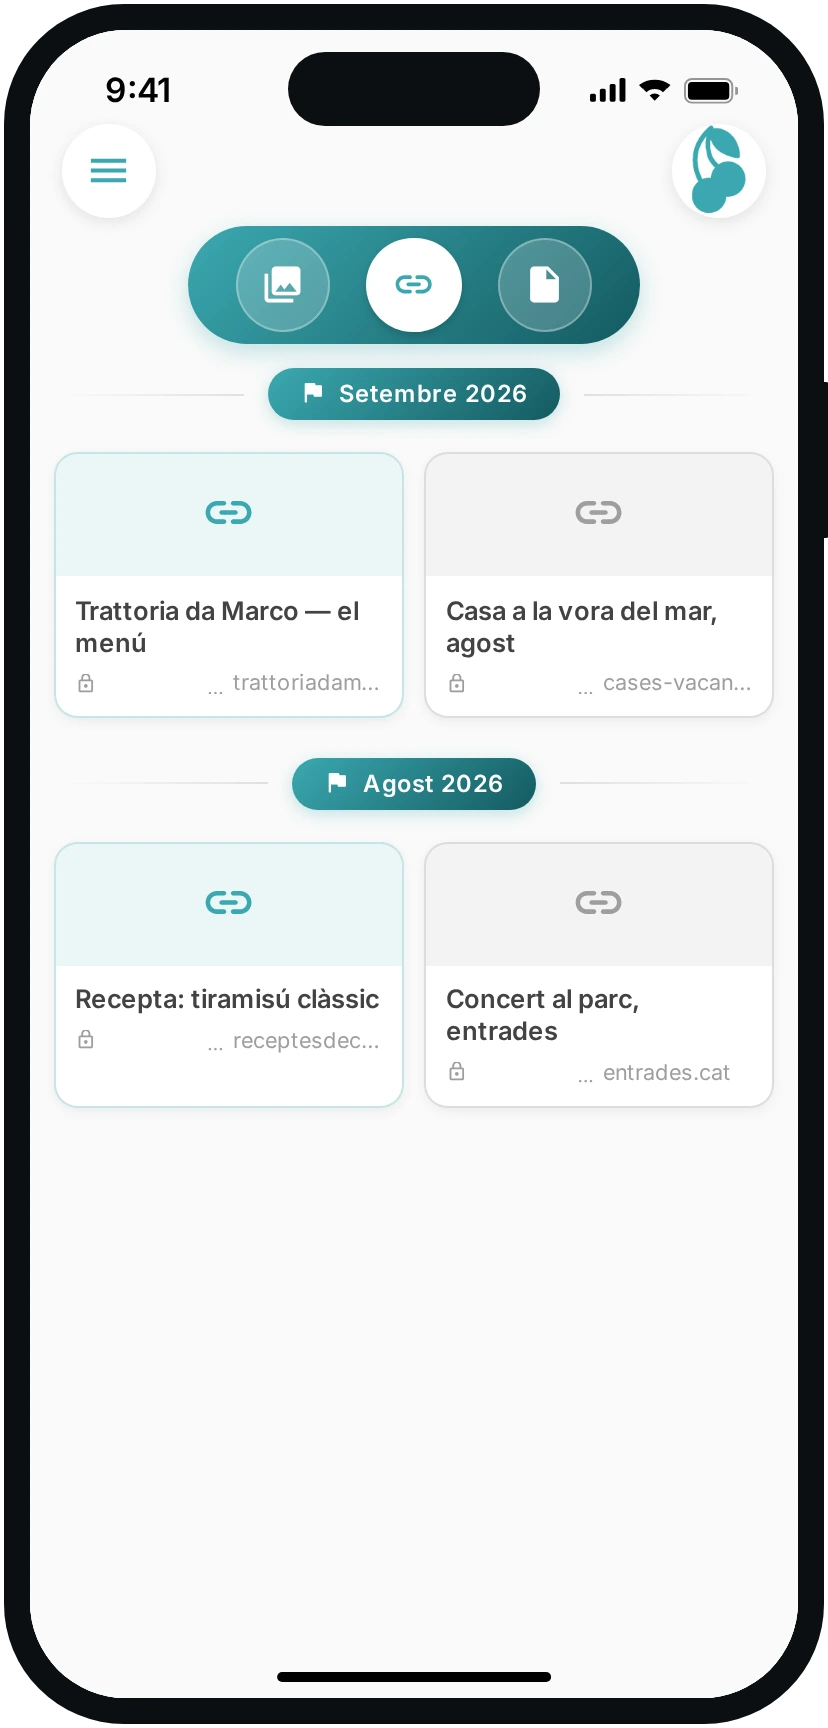
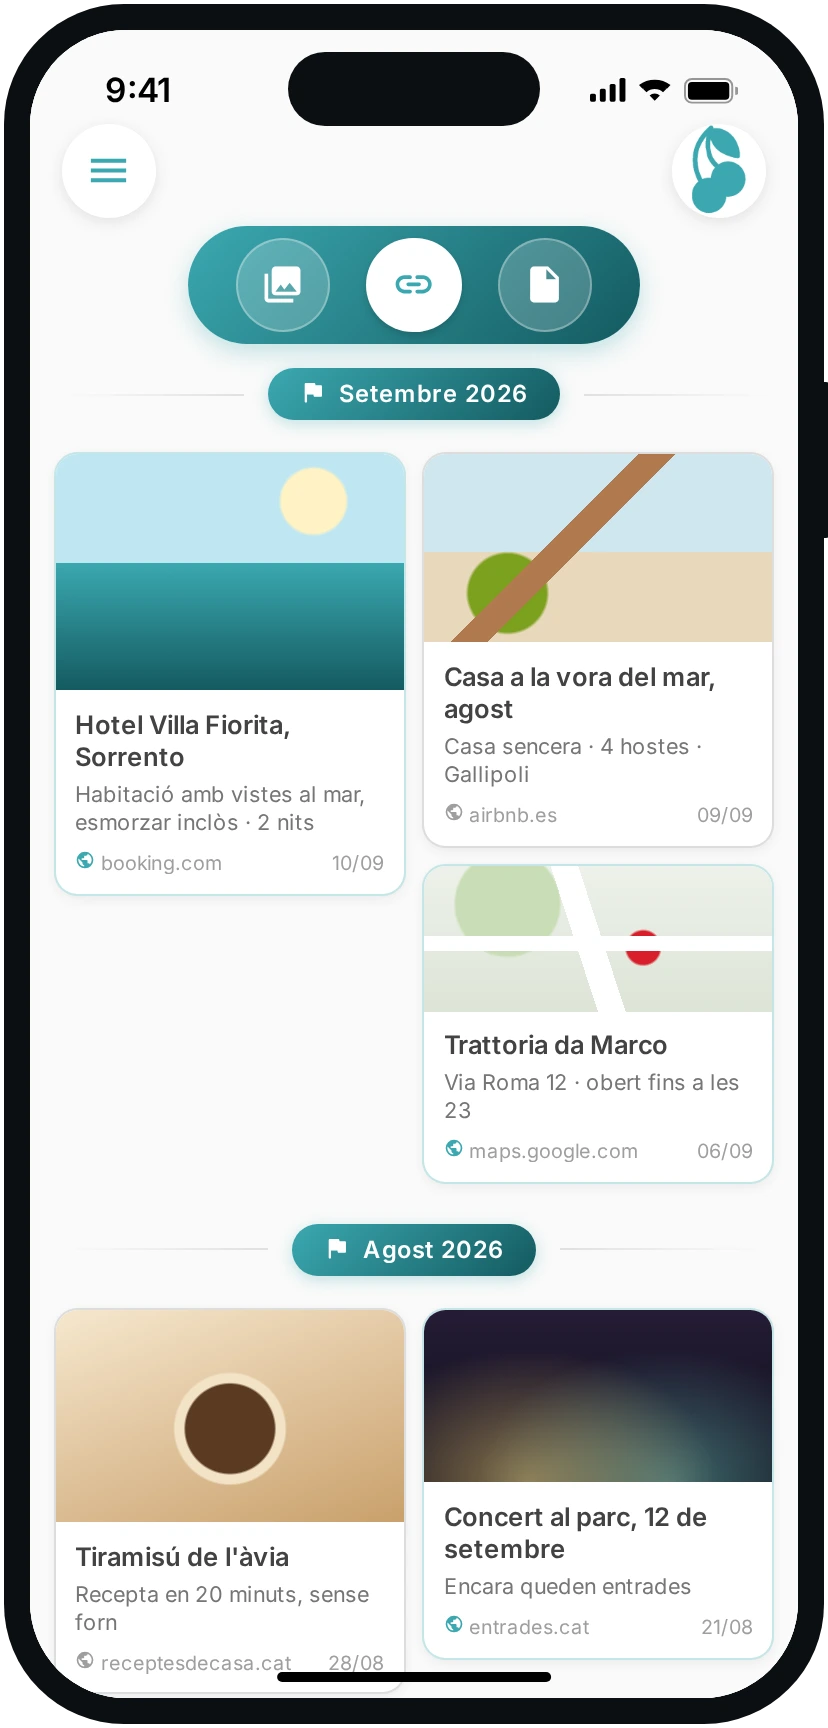
Galleria: i link diventano una masonry con le anteprime
Nell'app la scheda dei link è una MasonryGridView a due colonne e ogni card ha
la thumbnail scaricata dal link, titolo, descrizione e dominio: il mock invece
mostrava una griglia uniforme con una fascia azzurra e l'icona di una catena.
Ora è fedele.

- Masonry vera (column-count: 2, break-inside: avoid), quindi le schede hanno
  altezze diverse a seconda dell'anteprima, come su Pinterest.
- Anteprime disegnate: mare e sole per l'hotel, casa e prato per l'affitto,
  mappa con strade e spillo rosso per il locale, tazzina per la ricetta, luci
  di palco per il concerto. Le thumbnail vere le scarica l'app dal link, qui
  sono illustrate.
- La riga del dominio ora usa l'icona public nel colore di chi ha mandato il
  link, come nel Flutter, e mostra anche la data.
- I domini sono scritti come testo (booking.com, airbnb, maps.google.com):
  nessun logo altrui riprodotto, che in una pagina promozionale sarebbe un
  problema di marchio.
- Aggiunto padding in fondo alla galleria, così l'ultima riga non finisce
  sotto la barra home.

Claude-Session: https://claude.ai/code/session_017qH6MnkFAjSTzPptRSAvuz

diff --git a/store/screenshots/src/index.html b/store/screenshots/src/index.html
@@ -179,7 +179,7 @@ h1 { font-family: var(--display); font-weight: 800; font-size: 9.4vw; line-heigh
 .cal .tpanel .bubble { max-width: 78%; }
 
 /* Media */
-.media { position: absolute; inset: 0; background: #FAFAFA; display: flex; flex-direction: column; padding-top: 100px; }
+.media { position: absolute; inset: 0; background: #FAFAFA; display: flex; flex-direction: column; padding-top: 100px; padding-bottom: calc(6px + var(--safe-b)); }
 .tabs { margin: 0 80px; padding: 6px; border-radius: 30px; background: var(--grad); box-shadow: 0 4px 12px rgba(59,168,176,.3); display: flex; justify-content: space-evenly; }
 .tabs .t { width: 48px; height: 48px; border-radius: 50%; display: flex; align-items: center; justify-content: center; color: #fff; background: rgba(255,255,255,.2); border: 1px solid rgba(255,255,255,.3); }
 .tabs .t.on { background: #fff; color: #3BA8B0; border: none; box-shadow: 0 2px 4px rgba(0,0,0,.15); }
@@ -192,16 +192,21 @@ h1 { font-family: var(--display); font-weight: 800; font-size: 9.4vw; line-heigh
 .ph .badge.p { background: rgba(158,158,158,.9); }
 .ph .vid { position: absolute; inset: 0; display: flex; align-items: center; justify-content: center; color: #fff; background: linear-gradient(180deg, transparent, rgba(0,0,0,.4)); }
 
-/* Link e documenti (media_screen.dart: _LinkCard e _DocumentListItem) */
-.lgrid { display: grid; grid-template-columns: 1fr 1fr; gap: 10px; padding: 4px 12px 8px; }
-.lcard { background: #fff; border-radius: 12px; border: 1.5px solid rgba(59,168,176,.3); box-shadow: 0 2px 6px rgba(0,0,0,.06); overflow: hidden; }
+/* Link e documenti (media_screen.dart: _LinkGridItem e _DocumentListItem).
+   I link stanno in una masonry a due colonne — nell'app è MasonryGridView.count
+   — quindi le schede hanno altezze diverse a seconda della miniatura. */
+.lgrid { column-count: 2; column-gap: 8px; padding: 4px 12px 8px; }
+.lcard { break-inside: avoid; margin-bottom: 8px; background: #fff; border-radius: 12px;
+  border: 1.5px solid rgba(59,168,176,.3); box-shadow: 0 2px 6px rgba(0,0,0,.06); overflow: hidden; }
 .lcard.p { border-color: rgba(158,158,158,.35); }
-.lcard .thumb { height: 62px; display: flex; align-items: center; justify-content: center; background: rgba(59,168,176,.1); color: #3BA8B0; }
-.lcard.p .thumb { background: rgba(158,158,158,.12); color: #9E9E9E; }
+.lcard .thumb { position: relative; overflow: hidden; }
+.lcard .noimg { display: flex; align-items: center; justify-content: center; height: 60px; background: rgba(59,168,176,.1); color: #3BA8B0; }
+.lcard.p .noimg { background: rgba(158,158,158,.12); color: #9E9E9E; }
 .lcard .body { padding: 10px; }
 .lcard .tt { font-size: 13px; font-weight: 600; line-height: 1.25; color: #424242; }
-.lcard .dm { display: flex; align-items: center; gap: 4px; margin-top: 6px; font-size: 11px; color: #9E9E9E; }
-.lcard .dm span { flex: 1; min-width: 0; overflow: hidden; text-overflow: ellipsis; white-space: nowrap; }
+.lcard .ds { margin-top: 4px; font-size: 11px; line-height: 1.3; color: #757575; }
+.lcard .dm { display: flex; align-items: center; gap: 3px; margin-top: 6px; font-size: 10px; color: #9E9E9E; }
+.lcard .dm .site { flex: 1; min-width: 0; overflow: hidden; text-overflow: ellipsis; white-space: nowrap; }
 .dlist { display: flex; flex-direction: column; gap: 10px; padding: 4px 12px 8px; }
 .drow { display: flex; align-items: center; gap: 12px; padding: 12px; background: #fff; border-radius: 12px; border: 1.5px solid rgba(59,168,176,.3); box-shadow: 0 2px 4px rgba(0,0,0,.04); }
 .drow.p { border-color: rgba(158,158,158,.35); }
@@ -362,7 +367,7 @@ const UI = {
     locActive: 'Condivisione attiva', callTitle: 'Chiamata Vocale', good: 'Connessione buona', mute: 'Muto', speaker: 'Altoparlante', end: 'Fine',
     ago: '12s fa', add: 'Aggiungi', wd: ['L','M','M','G','V','S','D'], month: 'Settembre 2026', month2: 'Agosto 2026',
     todo1: 'Cena da Marco e Giulia 🍝', todo2: 'Prenotare il treno per Roma 🚄', todo3: 'Comprare i fiori per la mamma 💐',
-    links: [['Trattoria da Marco — il menù','trattoriadamarco.it'],['Casa sul mare, agosto','case-vacanza.it'],['Ricetta: tiramisù classico','ricettedicasa.it'],['Concerto al parco, biglietti','biglietteria.it']], docs: [['Contratto affitto.pdf','1,2 MB','10/09'],['Biglietti treno Roma.pdf','340 KB','08/09'],['Preventivo cucina.pdf','2,1 MB','05/09'],['Ricette della nonna.docx','88 KB','02/09']],
+    links: [['Hotel Villa Fiorita, Sorrento','Camera vista mare, colazione inclusa · 2 notti','booking.com','10/09'],['Casa sul mare, agosto','Intera casa · 4 ospiti · Gallipoli','airbnb.it','09/09'],['Trattoria da Marco','Via Roma 12 · aperto fino alle 23','maps.google.com','06/09'],['Tiramisù della nonna','Ricetta in 20 minuti, senza forno','ricettedicasa.it','28/08'],['Concerto al parco, 12 settembre','Biglietti ancora disponibili','biglietteria.it','21/08']], docs: [['Contratto affitto.pdf','1,2 MB','10/09'],['Biglietti treno Roma.pdf','340 KB','08/09'],['Preventivo cucina.pdf','2,1 MB','05/09'],['Ricette della nonna.docx','88 KB','02/09']],
     pairTitle: 'Pairing con il tuo amore', pairSub: 'Completa entrambi i passaggi per accoppiare i dispositivi',
     s1t: 'Mostra il tuo QR', s1d: 'Fai scansionare questo QR al tuo amore', s2t: 'Leggi il QR del tuo amore', s2d: 'Scansiona il QR mostrato dal tuo amore', scan: 'Scansiona QR', scanHint: 'Inquadra il QR Code del tuo amore', done: 'Completato', okMsg: 'QR del partner scansionato con successo!' },
   en: { yesterday: 'Yesterday', e1: 'Morning love ☕ running late tonight', e2: 'No worries, I\'ll cook dinner 🍝', e3: 'You\'re the best ❤', e4: 'Booked a table for Saturday, ok?',
@@ -371,7 +376,7 @@ const UI = {
     locActive: 'Sharing active', callTitle: 'Voice Call', good: 'Good connection', mute: 'Mute', speaker: 'Speaker', end: 'End',
     ago: '12s ago', add: 'Add', wd: ['M','T','W','T','F','S','S'], month: 'September 2026', month2: 'August 2026',
     todo1: 'Dinner at Marco & Giulia\'s 🍝', todo2: 'Book the train to Rome 🚄', todo3: 'Buy flowers for mum 💐',
-    links: [['Trattoria da Marco — the menu','trattoriadamarco.it'],['House by the sea, August','holiday-lets.com'],['Recipe: classic tiramisu','homerecipes.com'],['Concert in the park, tickets','ticketdesk.com']], docs: [['Rental agreement.pdf','1.2 MB','10/09'],['Train tickets to Rome.pdf','340 KB','08/09'],['Kitchen quote.pdf','2.1 MB','05/09'],['Grandma\'s recipes.docx','88 KB','02/09']],
+    links: [['Hotel Villa Fiorita, Sorrento','Sea view room, breakfast included · 2 nights','booking.com','10/09'],['House by the sea, August','Entire home · 4 guests · Gallipoli','airbnb.com','09/09'],['Trattoria da Marco','Via Roma 12 · open until 11pm','maps.google.com','06/09'],["Grandma's tiramisu",'Ready in 20 minutes, no baking','homerecipes.com','28/08'],['Concert in the park, 12 September','Tickets still available','ticketdesk.com','21/08']], docs: [['Rental agreement.pdf','1.2 MB','10/09'],['Train tickets to Rome.pdf','340 KB','08/09'],['Kitchen quote.pdf','2.1 MB','05/09'],['Grandma\'s recipes.docx','88 KB','02/09']],
     pairTitle: 'Pairing with your love', pairSub: 'Complete both steps to pair the devices',
     s1t: 'Show your QR code', s1d: 'Have your love scan this QR code', s2t: 'Read your love\'s QR code', s2d: 'Scan the QR code shown by your love', scan: 'Scan QR', scanHint: 'Frame the QR Code of your love', done: 'Completed', okMsg: 'Partner QR code scanned successfully!' },
   es: { yesterday: 'Ayer', e1: 'Buenos días amor ☕ hoy acabo tarde', e2: 'Tranquila, preparo yo la cena 🍝', e3: 'Eres el mejor ❤', e4: 'He reservado para el sábado, ¿te va?',
@@ -380,7 +385,7 @@ const UI = {
     locActive: 'Compartir activo', callTitle: 'Llamada de Voz', good: 'Buena conexión', mute: 'Silenciar', speaker: 'Altavoz', end: 'Finalizar',
     ago: 'hace 12s', add: 'Añadir', wd: ['L','M','X','J','V','S','D'], month: 'Septiembre 2026', month2: 'Agosto 2026',
     todo1: 'Cena en casa de Marco y Giulia 🍝', todo2: 'Reservar el tren a Roma 🚄', todo3: 'Comprar flores para mamá 💐',
-    links: [['Trattoria da Marco — el menú','trattoriadamarco.it'],['Casa junto al mar, agosto','casas-vacaciones.es'],['Receta: tiramisú clásico','recetasdecasa.es'],['Concierto en el parque, entradas','entradas.es']], docs: [['Contrato de alquiler.pdf','1,2 MB','10/09'],['Billetes de tren a Roma.pdf','340 KB','08/09'],['Presupuesto cocina.pdf','2,1 MB','05/09'],['Recetas de la abuela.docx','88 KB','02/09']],
+    links: [['Hotel Villa Fiorita, Sorrento','Habitación con vistas al mar, desayuno incluido · 2 noches','booking.com','10/09'],['Casa junto al mar, agosto','Casa entera · 4 huéspedes · Gallipoli','airbnb.es','09/09'],['Trattoria da Marco','Via Roma 12 · abierto hasta las 23','maps.google.com','06/09'],['Tiramisú de la abuela','Receta en 20 minutos, sin horno','recetasdecasa.es','28/08'],['Concierto en el parque, 12 de septiembre','Quedan entradas','entradas.es','21/08']], docs: [['Contrato de alquiler.pdf','1,2 MB','10/09'],['Billetes de tren a Roma.pdf','340 KB','08/09'],['Presupuesto cocina.pdf','2,1 MB','05/09'],['Recetas de la abuela.docx','88 KB','02/09']],
     pairTitle: 'Pairing con tu amor', pairSub: 'Complete ambos pasos para emparejar los dispositivos',
     s1t: 'Muestra tu código QR', s1d: 'Haz que tu amor escanee este código QR', s2t: 'Lee el código QR de tu amor', s2d: 'Escanea el código QR que te muestra tu amor', scan: 'Escanear QR', scanHint: 'Enmarca el Código QR de tu amor', done: 'Completado', okMsg: '¡Código QR de socio escaneado exitosamente!' },
   ca: { yesterday: 'Ahir', e1: 'Bon dia amor ☕ avui acabo tard', e2: 'Tranquil·la, ja faig jo el sopar 🍝', e3: 'Ets el millor ❤', e4: 'He reservat per dissabte, et va bé?',
@@ -389,7 +394,7 @@ const UI = {
     locActive: 'Compartir actiu', callTitle: 'Trucada de Veu', good: 'Bona connexió', mute: 'Silenciar', speaker: 'Altaveu', end: 'Finalitzar',
     ago: 'fa 12s', add: 'Afegeix', wd: ['DL','DT','DC','DJ','DV','DS','DG'], month: 'Setembre 2026', month2: 'Agost 2026',
     todo1: 'Sopar a casa d\'en Marco i la Giulia 🍝', todo2: 'Reservar el tren a Roma 🚄', todo3: 'Comprar flors per a la mama 💐',
-    links: [['Trattoria da Marco — el menú','trattoriadamarco.it'],['Casa a la vora del mar, agost','cases-vacances.cat'],['Recepta: tiramisú clàssic','receptesdecasa.cat'],['Concert al parc, entrades','entrades.cat']], docs: [['Contracte de lloguer.pdf','1,2 MB','10/09'],['Bitllets de tren a Roma.pdf','340 KB','08/09'],['Pressupost cuina.pdf','2,1 MB','05/09'],['Receptes de l\'àvia.docx','88 KB','02/09']],
+    links: [['Hotel Villa Fiorita, Sorrento','Habitació amb vistes al mar, esmorzar inclòs · 2 nits','booking.com','10/09'],['Casa a la vora del mar, agost','Casa sencera · 4 hostes · Gallipoli','airbnb.es','09/09'],['Trattoria da Marco','Via Roma 12 · obert fins a les 23','maps.google.com','06/09'],["Tiramisú de l'àvia",'Recepta en 20 minuts, sense forn','receptesdecasa.cat','28/08'],['Concert al parc, 12 de setembre','Encara queden entrades','entrades.cat','21/08']], docs: [['Contracte de lloguer.pdf','1,2 MB','10/09'],['Bitllets de tren a Roma.pdf','340 KB','08/09'],['Pressupost cuina.pdf','2,1 MB','05/09'],['Receptes de l\'àvia.docx','88 KB','02/09']],
     pairTitle: 'Pairing amb el teu amor', pairSub: 'Completeu els dos passos per emparellar els dispositius',
     s1t: 'Mostra el teu codi QR', s1d: 'Fes que el teu amor escanegi aquest codi QR', s2t: 'Llegeix el codi QR del teu amor', s2d: 'Escaneja el codi QR que et mostra el teu amor', scan: 'Escaneja un codi QR', scanHint: 'Emmarca el codi QR del teu amor', done: 'Completat', okMsg: 'Codi QR del soci escanejat correctament!' },
 };
@@ -560,15 +565,26 @@ function mediaScreen(tab) {
   const sep = (label) => `<div class="msep"><span class="ln"></span><span class="pill">${mi('flag', 14, '#fff', 'mir')}${label}</span><span class="ln r"></span></div>`;
 
   if (tab === 1) {
+    // Anteprime: nell'app sono le thumbnail scaricate dal link. Qui sono
+    // disegnate, con altezze diverse — è quello che dà la masonry.
+    const THUMB = [
+      [120, 'linear-gradient(180deg,#BFE6F2 0 46%,#3BA8B0 46%,#145A60)', 'radial-gradient(circle at 74% 20%,#FFF3C4 0 10%,transparent 11%)'],
+      [96,  'linear-gradient(180deg,#CFE6EF 0 52%,#E8D9BC 52%)', 'linear-gradient(135deg,transparent 40%,#B07A4E 40% 47%,transparent 47%),radial-gradient(circle at 24% 74%,#7CA01E 0 13%,transparent 14%)'],
+      [74,  'linear-gradient(180deg,#EDF1EA,#DCE4D6)', 'linear-gradient(0deg,transparent 42%,#fff 42% 52%,transparent 52%),linear-gradient(72deg,transparent 44%,#fff 44% 51%,transparent 51%),radial-gradient(circle at 24% 26%,#C9DDB6 0 18%,transparent 19%),radial-gradient(circle at 63% 56%,#D81F2C 0 7%,transparent 8%)'],
+      [108, 'linear-gradient(160deg,#F6E7CE,#C9A06B)', 'radial-gradient(circle at 50% 56%,#5B3A22 0 21%,#F2E2C6 22% 26%,transparent 27%)'],
+      [88,  'linear-gradient(180deg,#241C35,#0E0A18)', 'radial-gradient(ellipse at 30% 100%,rgba(255,220,130,.5),transparent 55%),radial-gradient(ellipse at 70% 100%,rgba(124,224,215,.45),transparent 55%)'],
+    ];
     const card = (i, mine) => {
-      const [title, domain] = t.links[i];
-      return `<div class="lcard ${mine ? '' : 'p'}"><div class="thumb">${mi('link', 28, 'currentColor', 'mir')}</div>
-        <div class="body"><div class="tt">${title}</div>
-        <div class="dm">${mi('lock_outline', 11, 'currentColor', 'mio')}<span>${domain}</span></div></div></div>`;
+      const [title, desc, domain, date] = t.links[i];
+      const [h, bg, deco] = THUMB[i % THUMB.length];
+      return `<div class="lcard ${mine ? '' : 'p'}">
+        <div class="thumb" style="height:${h}px;background:${deco},${bg}"></div>
+        <div class="body"><div class="tt">${title}</div><div class="ds">${desc}</div>
+        <div class="dm">${mi('public', 10, mine ? '#3BA8B0' : '#9E9E9E')}<span class="site">${domain}</span><span>${date}</span></div></div></div>`;
     };
     return `<div class="media">${fabs(false)}${tabs}
-      ${sep(t.month)}<div class="lgrid">${card(0, 1)}${card(1, 0)}</div>
-      ${sep(t.month2)}<div class="lgrid">${card(2, 1)}${card(3, 0)}</div></div>`;
+      ${sep(t.month)}<div class="lgrid">${card(0, 1)}${card(1, 0)}${card(2, 1)}</div>
+      ${sep(t.month2)}<div class="lgrid">${card(3, 0)}${card(4, 1)}</div></div>`;
   }
 
   if (tab === 2) {
